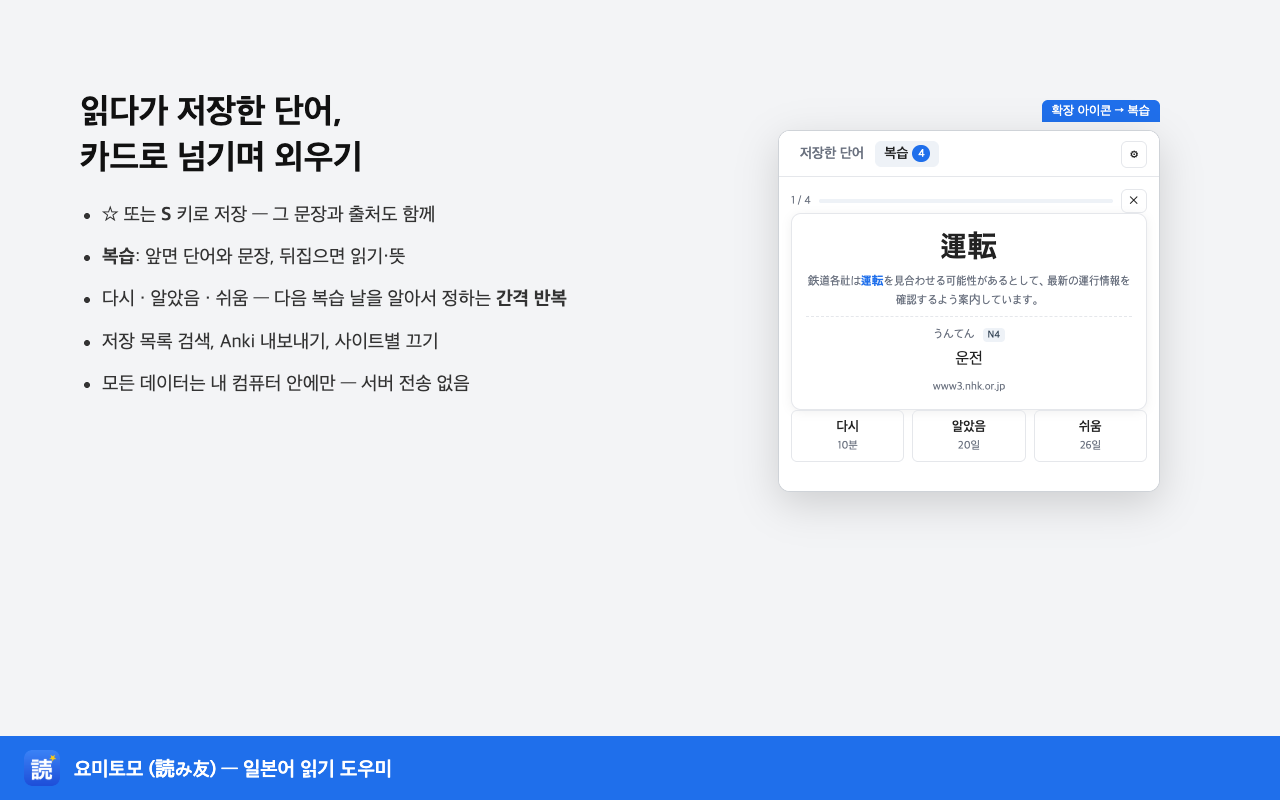
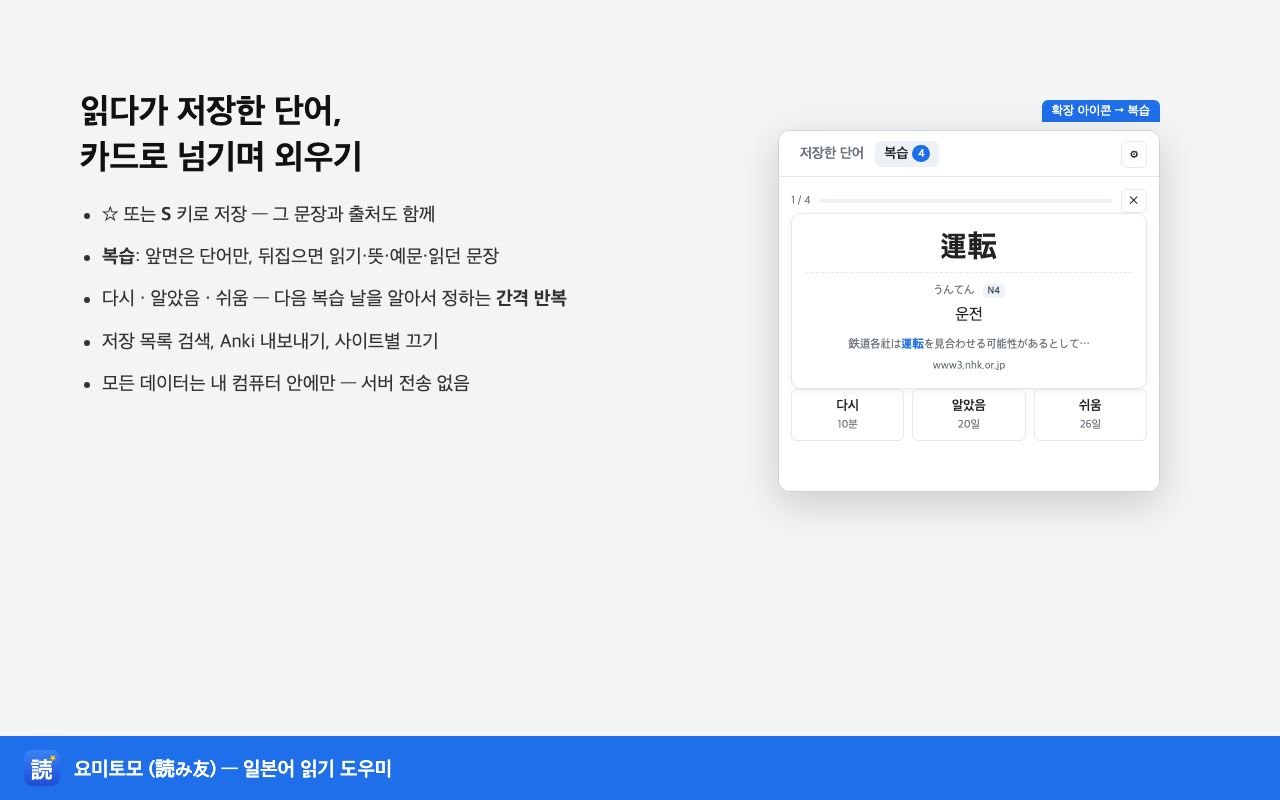
스토어 링크 연결, Anki 카드 설명 갱신(앞면 단어만·뒷면 예문)

diff --git a/index.html b/index.html
@@ -109,7 +109,7 @@
     <div>
       <h1>일본어 글 위에 마우스를 올리면,<br>한국어 뜻이 바로 뜹니다.</h1>
       <p class="lead">뉴스·블로그·소설을 원문으로 읽는 한국어 학습자를 위한 크롬 확장 프로그램. 읽기, 뜻, JLPT 급수, 한자 훈음까지 한 창에. 모르는 단어는 Anki 카드로 바로. 읽는 페이지와 저장한 단어는 내 컴퓨터 밖으로 나가지 않습니다.</p>
-      <a class="btn" href="#install" id="install-btn">크롬에 추가하기</a>
+      <a class="btn" href="https://chromewebstore.google.com/detail/hecagbphcfcfakhekcocahjoglfmmibd" id="install-btn">크롬에 추가하기</a>
       <a class="btn ghost" href="#how">어떻게 쓰나요?</a>
       <p class="note">전부 무료. 크롬·엣지·브레이브 등 크로미움 브라우저. 설치 후 Alt+J 로 켜고 끕니다.</p>
       <a class="pill" href="#anki">★ <span><b>Anki 바로 연동</b> — ☆ 한 번 누르면 내 Anki 덱에 카드가 생깁니다</span></a>
@@ -140,10 +140,10 @@
     <div class="anki">
       <div>
         <h2>☆ 한 번이면 Anki 카드</h2>
-        <p class="lead">읽다가 모르는 단어에서 ☆ 를 누르면, 단어·읽기·뜻에 <b>그 단어가 나온 문장</b>까지 담긴 카드가 내 Anki 덱에 바로 들어갑니다. 복사해 붙이거나 파일을 가져올 필요가 없습니다.</p>
+        <p class="lead">읽다가 모르는 단어에서 ☆ 를 누르면, 단어·읽기·뜻에 <b>사전 예문과 그 단어가 나온 문장</b>까지 담긴 카드가 내 Anki 덱에 바로 들어갑니다. 복사해 붙이거나 파일을 가져올 필요가 없습니다.</p>
         <div class="flow"><span>팝업에서 ☆</span><i>→</i><span>요미토모</span><i>→</i><span>Anki 「요미토모」 덱</span></div>
         <ul>
-          <li>카드 앞면: 단어와 그 문장 / 뒷면: 읽기·급수·한국어 뜻·출처 페이지</li>
+          <li>카드 앞면: 단어만 / 뒷면: 읽기·급수·한국어 뜻·사전 예문(번역)·그 단어가 나온 문장·출처 페이지</li>
           <li>같은 단어를 두 번 눌러도 카드는 하나만</li>
           <li>JLPT 급수가 태그로 붙어 급수별로 골라 복습할 수 있음</li>
           <li>Anki 가 꺼져 있으면 모아 두었다가, 켜면 한꺼번에 보냄</li>
@@ -156,12 +156,13 @@
         <div class="face">
           <div class="tag">앞면</div>
           <div class="w">避難</div>
-          <div class="s">自治体は<b>避難</b>情報を確認し、早めに安全な場所へ移動するよう呼びかけました。</div>
         </div>
         <div class="face">
           <div class="tag">뒷면</div>
           <div class="r">ひなん <span style="font-size:12px;padding:1px 6px;border-radius:4px;background:var(--soft);color:var(--accent)">N1</span></div>
           <div class="m">피난, 대피</div>
+          <div class="s">彼は雨を避ける<b>避難</b>場所を捜した。<br><span style="color:var(--muted, #888)">그는 비를 피할 곳을 찾았다.</span></div>
+          <div class="s">自治体は<b>避難</b>情報を確認し、早めに安全な場所へ…</div>
           <div class="meta">출처 www3.nhk.or.jp · 태그 요미토모, N1</div>
         </div>
       </div>
@@ -235,8 +236,8 @@
 
   <section id="install">
     <h2>설치</h2>
-    <p style="margin:0 0 12px">크롬 웹스토어 심사가 끝나면 아래 버튼이 스토어로 연결됩니다. 그전에는 <a href="mailto:enulove7@naver.com">enulove7@naver.com</a> 으로 연락 주시면 테스트용 파일을 보내 드립니다.</p>
-    <a class="btn" href="#" id="store-link">크롬 웹스토어에서 열기 (준비 중)</a>
+    <p style="margin:0 0 12px">크롬 웹스토어에서 무료로 설치할 수 있습니다. 「Chrome에 추가」를 누르면 끝이에요. 문의는 <a href="mailto:enulove7@naver.com">enulove7@naver.com</a></p>
+    <a class="btn" href="https://chromewebstore.google.com/detail/hecagbphcfcfakhekcocahjoglfmmibd" id="store-link">크롬에 추가하기</a>
   </section>
 
   <footer>
@@ -246,7 +247,7 @@
 </div>
 <script>
   // 스토어 주소가 정해지면 아래 한 줄만 바꿉니다. 비어 있으면 「설치」 부분으로 내려갑니다.
-  const STORE_URL = "";
+  const STORE_URL = "https://chromewebstore.google.com/detail/hecagbphcfcfakhekcocahjoglfmmibd";
   if (STORE_URL) { for (const id of ["install-btn", "store-link"]) { const a = document.getElementById(id); a.href = STORE_URL; a.textContent = "크롬에 추가하기"; } }
 </script>
 </body>

diff --git a/anki.html b/anki.html
@@ -101,7 +101,7 @@
   <h3>알아 둘 말 네 개</h3>
   <div class="tablewrap"><table>
     <tr><th>말</th><th>뜻</th><th>요미토모에서는</th></tr>
-    <tr><td><b>카드</b></td><td>앞면(문제)과 뒷면(답)이 있는 한 장</td><td>앞면: 단어와 그 단어가 나온 문장 / 뒷면: 읽기·뜻·급수</td></tr>
+    <tr><td><b>카드</b></td><td>앞면(문제)과 뒷면(답)이 있는 한 장</td><td>앞면: 단어만 / 뒷면: 읽기·뜻·급수·예문·읽던 문장</td></tr>
     <tr><td><b>덱</b></td><td>카드를 모아 둔 묶음(폴더 같은 것)</td><td>「요미토모」 덱에 들어감 (이름은 바꿀 수 있음)</td></tr>
     <tr><td><b>확장 프로그램</b></td><td>Anki 에 기능을 더하는 무료 추가 기능 (영어로 add-on)</td><td>「AnkiConnect」를 하나 깔아야 요미토모가 카드를 넣을 수 있음</td></tr>
     <tr><td><b>동기화</b></td><td>컴퓨터와 폰의 카드·기록을 맞추는 것 (무료 AnkiWeb 계정)</td><td>컴퓨터로 넣은 카드를 폰에서 복습할 때 씀</td></tr>
@@ -174,10 +174,10 @@
 
   <h3>Anki 에 들어가는 카드 모양</h3>
   <div class="preview">
-    <div class="ankicard"><div class="side">앞면</div><div class="word">避難</div><div class="sent">自治体は<b>避難</b>情報を確認し、早めに安全な場所へ移動するよう呼びかけました。</div></div>
-    <div class="ankicard"><div class="side">뒷면</div><div class="word">避難</div><div class="reading">ひなん <span class="lv">N1</span></div><div class="meaning">피난, 대피</div><div class="sent">自治体は<b>避難</b>情報を確認し、早めに安全な場所へ移動するよう呼びかけました。</div><div class="src">NHK NEWS WEB</div></div>
+    <div class="ankicard"><div class="side">앞면</div><div class="word">避難</div></div>
+    <div class="ankicard"><div class="side">뒷면</div><div class="word">避難</div><div class="reading">ひなん <span class="lv">N1</span></div><div class="meaning">피난, 대피</div><div class="sent">彼は雨を避ける<b>避難</b>場所を捜した。<br>그는 비를 피할 곳을 찾았다.</div><div class="sent">自治体は<b>避難</b>情報を確認し、早めに安全な場所へ移動するよう呼びかけました。</div><div class="src">NHK NEWS WEB</div></div>
   </div>
-  <p>앞면에서 단어와 문장을 보고 읽기·뜻을 떠올린 뒤, 뒤집어서 맞혔는지 확인하는 방식이에요. 단어를 처음 만났던 문장이 같이 나와서 기억이 잘 납니다.</p>
+  <p>앞면에서 단어만 보고 읽기·뜻을 떠올린 뒤, 뒤집어서 맞혔는지 확인하는 방식이에요. 뒷면에는 사전 예문(한국어 번역)과 그 단어를 처음 만났던 문장이 나와요. 기사 문장이 길면 단어 앞뒤만 짧게 줄여서 보여 줍니다.</p>
 
   <h2 id="study"><span class="n">5</span>Anki 로 복습하기</h2>
   <ol>
